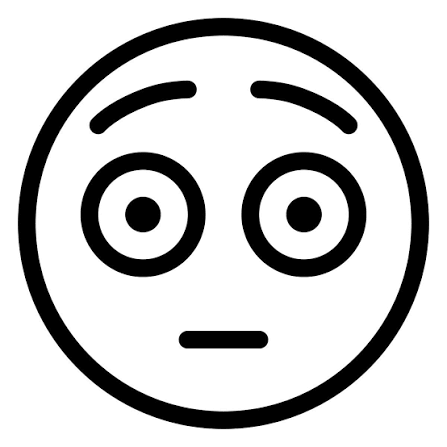
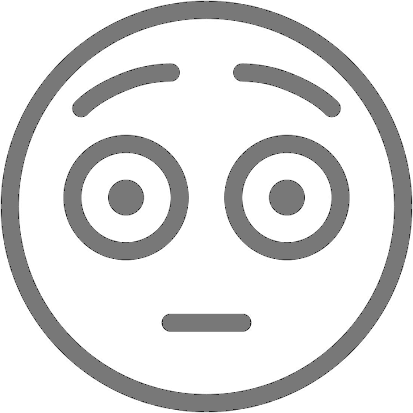
404 image again

diff --git a/docs/404.html b/docs/404.html
@@ -230,7 +230,7 @@ ul.task-list li input[type="checkbox"] {
 <hr>
 
 <div class="no-row-height column-margin column-container"><div class="">
-<p><img src="/VM/./_static/images/confuze.png" height="200"></p>
+<p><img src="/VM/./_static/images/confuze0.png" height="200"></p>
 </div></div><p>Беда… Страница, которую Вы хотите увидеть, куда-то подевалась.</p>
 <p>Даже не знаю, что и думать…</p>
 <p>Попробуйте поискать по содержанию — может враги перетащили или переименовали?</p>
